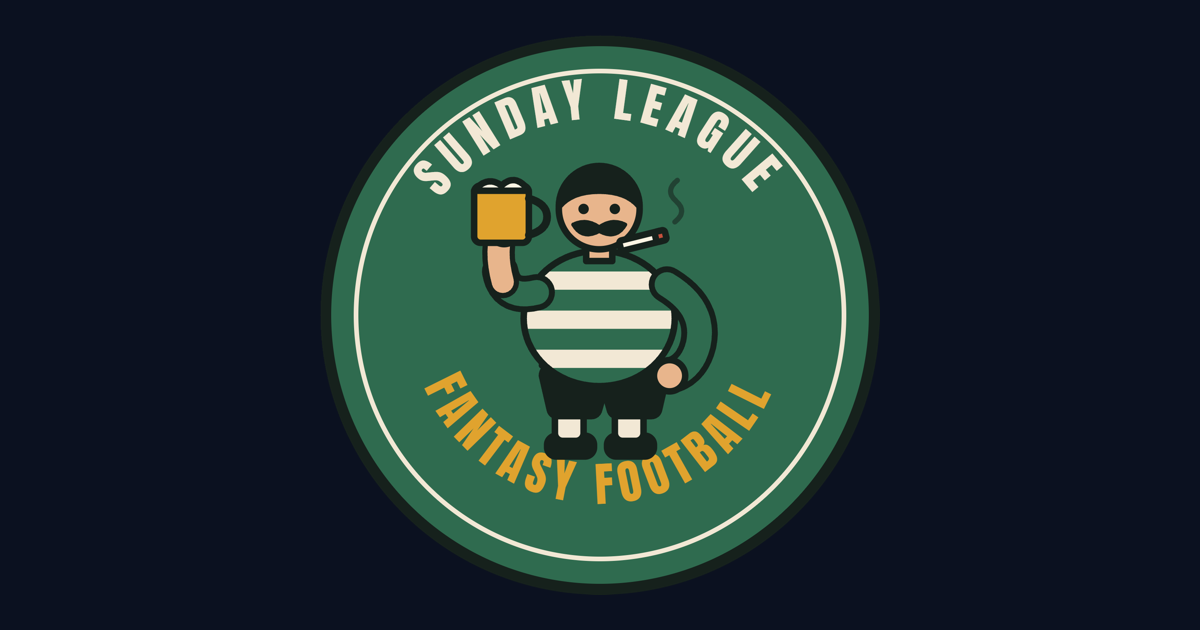
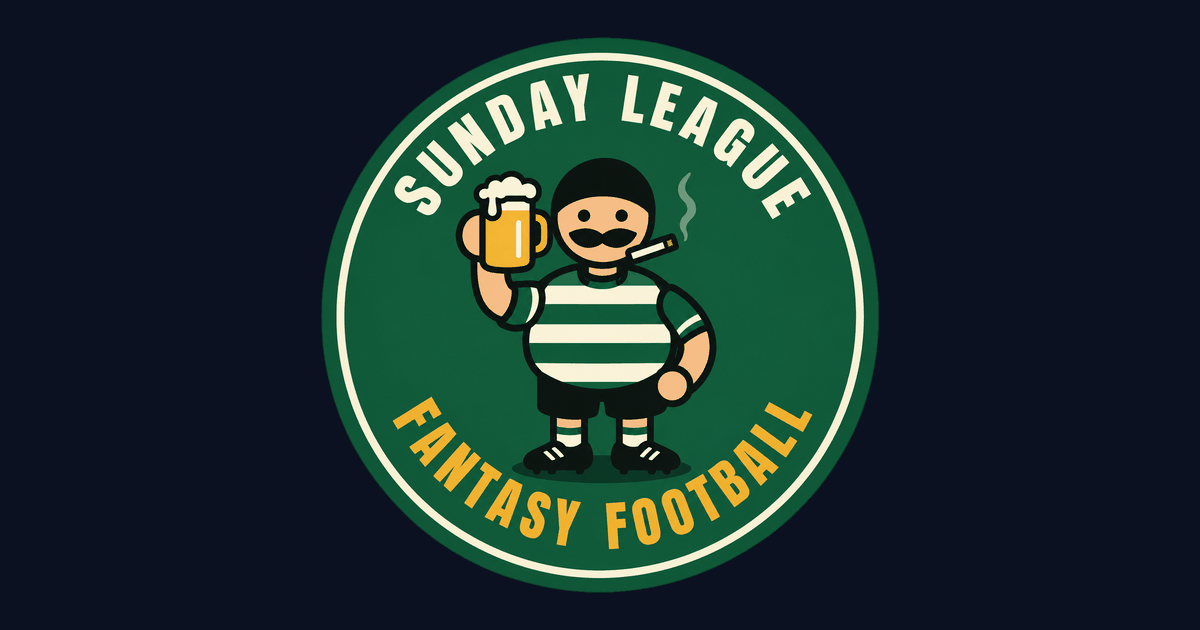
Nov logotip s prozornim ozadjem
Grb (navigacija, naslovnica, plakat), slika za deljenje (og) in nova majhna
ikona 180 px za zavihek in domaci zaslon namesto polne slike.

Changed region(s): [[0.2467, 0.0603, 0.74, 0.9651]]

diff --git a/index.html b/index.html
@@ -3,8 +3,8 @@
   <head>
     <meta charset="UTF-8" />
     <meta name="viewport" content="width=device-width, initial-scale=1.0" />
-    <link rel="icon" type="image/png" href="/logo/slff-grb.png" />
-    <link rel="apple-touch-icon" href="/logo/slff-grb.png" />
+    <link rel="icon" type="image/png" sizes="180x180" href="/logo/slff-ikona-180.png" />
+    <link rel="apple-touch-icon" href="/logo/slff-ikona-180.png" />
     <meta name="theme-color" content="#2f6b4f" />
     <title>SLFF — Sunday League Fantasy Football</title>
     <!-- Kanonični naslov ustvari App.tsx (useKanonicni) ob vsaki navigaciji za trenutno pot;
